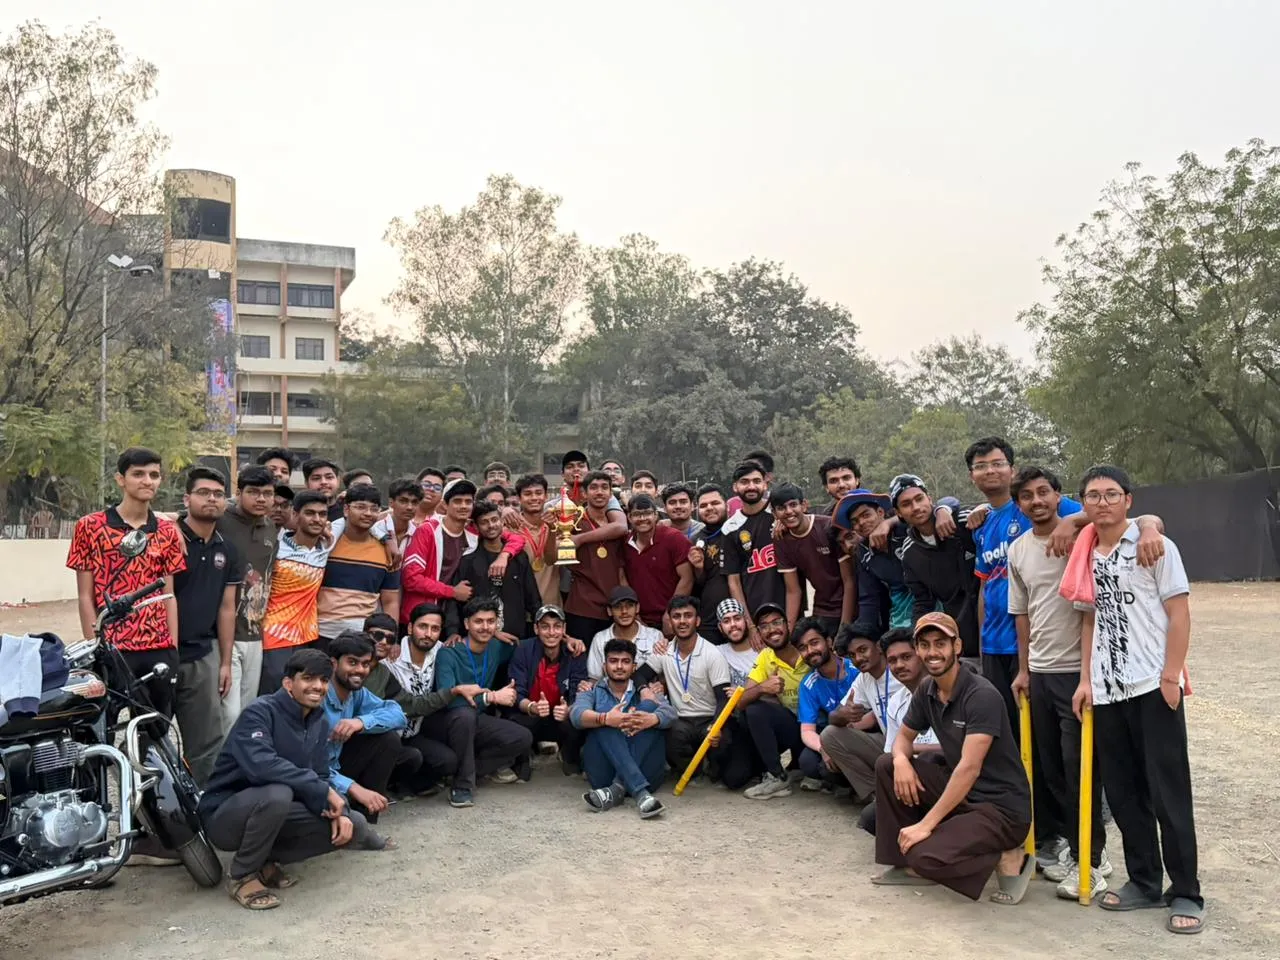
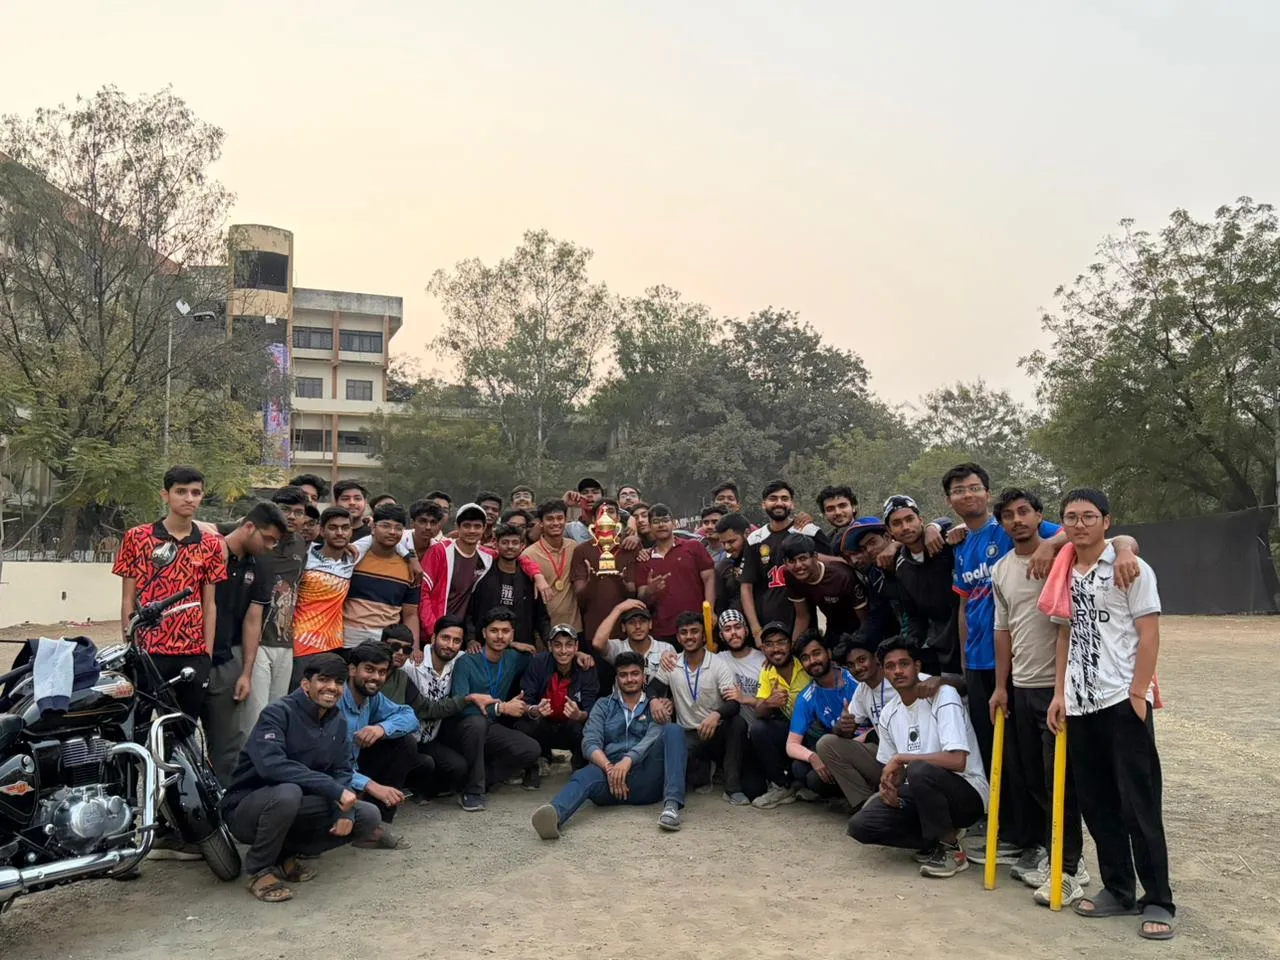
Remove the 3D trophy embed and add two new photos to the top of the strip
The Sketchfab trophy was a click-to-load third-party embed sitting in the
"Season 04 — unclaimed" panel. It is gone, along with its stylesheet section.

Two new ground photos lead the moments strip. MomentsSection sorts by the
leading number in each filename, so the existing 1–13 shift up to 3–15 and
the new pair takes 1 and 2. Both are WebP at quality 80 and capped at
1600px wide, matching the rest of the folder.

diff --git a/app/globals.css b/app/globals.css
@@ -1953,90 +1953,6 @@ img {
   }
 }
 
-/* --------------------------------------------------------------------------
-   24. Trophy embed
-   -------------------------------------------------------------------------- */
-.trophy {
-  width: min(100%, 26rem);
-  margin: 0;
-}
-.trophy-stage {
-  position: relative;
-  aspect-ratio: 4 / 3;
-  border: 1px solid var(--seam-10);
-  background: rgba(7, 9, 10, 0.55);
-  overflow: hidden;
-}
-.trophy-frame {
-  width: 100%;
-  height: 100%;
-  border: 0;
-  display: block;
-}
-
-/* The placeholder is a real control, not a picture of one — it is a <button>,
-   so it is reachable by keyboard and announced correctly. */
-.trophy-facade {
-  display: flex;
-  flex-direction: column;
-  align-items: center;
-  justify-content: center;
-  gap: 0.75rem;
-  width: 100%;
-  height: 100%;
-  padding: 1.5rem;
-  text-align: center;
-  color: var(--seam-45);
-  transition: color 0.4s var(--ease-out), background 0.4s var(--ease-out);
-}
-.trophy-facade:hover,
-.trophy-facade:focus-visible {
-  color: var(--blood-lit);
-  background: rgba(255, 90, 110, 0.04);
-}
-.trophy-facade svg {
-  width: 2.75rem;
-  height: auto;
-  transition: transform 0.5s var(--ease-out);
-}
-.trophy-facade:hover svg {
-  transform: translateY(-3px);
-}
-.trophy-cta {
-  font-family: var(--mono);
-  font-size: 0.72rem;
-  letter-spacing: 0.2em;
-  text-transform: uppercase;
-  color: var(--seam);
-}
-.trophy-note {
-  max-width: 24ch;
-  font-family: var(--mono);
-  font-size: 0.56rem;
-  line-height: 1.6;
-  letter-spacing: 0.12em;
-  text-transform: uppercase;
-  color: var(--seam-45);
-}
-.trophy-credit {
-  margin-top: 0.7rem;
-  font-size: 0.7rem;
-  line-height: 1.6;
-  color: var(--seam-45);
-}
-.trophy-credit a {
-  color: var(--seam-70);
-  border-bottom: 1px solid var(--seam-22);
-}
-.trophy-credit a:hover {
-  color: var(--blood-lit);
-  border-bottom-color: var(--blood-lit);
-}
-
-.champ-open {
-  align-items: center;
-}
-
 /* The title panel must lift even if JavaScript never runs. This animation is
    the guarantee; the JS version is only the nicer one. */
 .intro {

diff --git a/components/sections/ChampionsSection.jsx b/components/sections/ChampionsSection.jsx
@@ -1,5 +1,3 @@
-import TrophyEmbed from "@/components/TrophyEmbed";
-
 export default function ChampionsSection({ champions }) {
   return (
     <section id="champions" className="section">
@@ -47,7 +45,6 @@ export default function ChampionsSection({ champions }) {
               <p className="champ-open-title">Season 04 — unclaimed</p>
               <p className="champ-open-note">Entries open · decided 27 September</p>
             </div>
-            <TrophyEmbed />
           </div>
         </div>
       </div>
